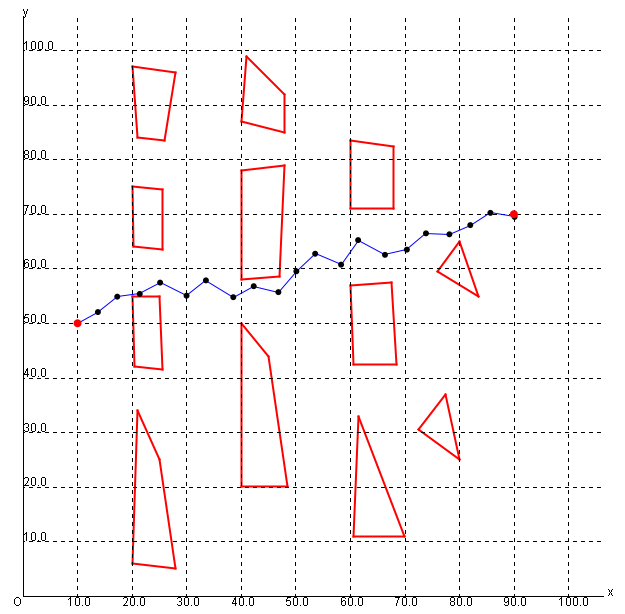
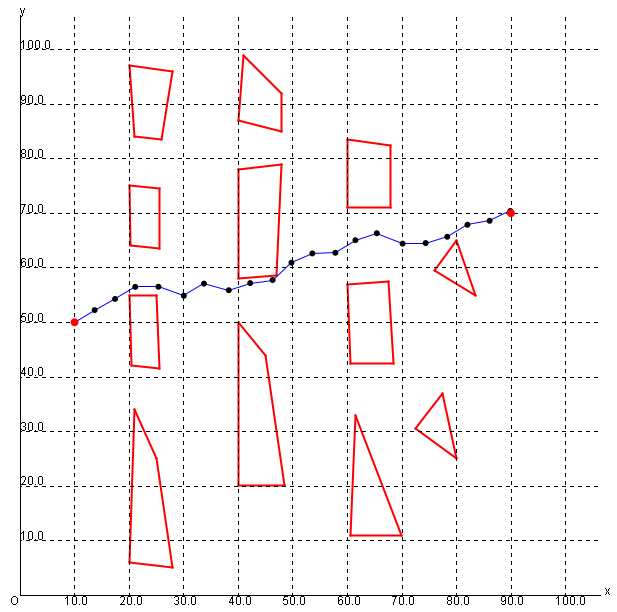
MOPSO (fix smooth function)

diff --git a/MOPSO/src/util/Path.java b/MOPSO/src/util/Path.java
@@ -40,17 +40,6 @@ public class Path {
 	}
 
 	public static Point convertPointToPoint(double pointy, double pointx, Point start, Point end) {
-//		double temp1, temp2, AB;
-//		double sinp, cosp, x, y;
-//		temp1 = end.x - start.x;
-//		temp2 = end.y - start.y;
-//		AB = Math.hypot(temp1, temp2);
-//		cosp = (temp1 / AB) * Math.cos(Math.toRadians(angle)) - (temp2 / AB) * Math.sin(Math.toRadians(angle));
-//		sinp = (temp1 / AB) * Math.sin(Math.toRadians(angle)) + (temp2 / AB) * Math.cos(Math.toRadians(angle));
-//		x = start.x + R * cosp;
-//		y = start.y + R * sinp;
-//		Point p = new Point(x, y);
-//		return p;
 		double x, y, temp1, temp2, phi;
 		temp1 = end.x - start.x;
 		temp2 = end.y - start.y;
@@ -68,89 +57,11 @@ public class Path {
 			b = Math.hypot(points[i + 2].x - points[i + 1].x, points[i + 2].y - points[i + 1].y);
 			c1 = (points[i + 1].x - points[i].x) * (points[i + 2].x - points[i + 1].x);
 			c2 = (points[i + 1].y - points[i].y) * (points[i + 2].y - points[i + 1].y);
-			double temp = (c1 + c2) / (a * b);
-			if (temp >= 1)
-				sum += Math.PI;
-			else if (temp >= -1)
-				sum += Math.PI - Math.acos(temp);
+			sum += Math.PI - 1 / Math.cos((c1 + c2) / (a * b));
 		}
 		smooth = sum / (points.length - 2);
 		return smooth;
 	}
-
-	// Su dung dinh li cosin trong tam giac
-//	public double pathSmooth() {
-//		double temp = 0;
-//		double[] ang = new double[n];
-//		double a, b, c;
-//		for (int i = 0; i < n; i++) {
-//			if (i == 0) {
-//				a = Math.pow(points[0].x - PSO.startPoint.x, 2) + Math.pow(points[0].y - PSO.startPoint.y, 2);
-//				b = Math.pow(points[1].x - points[0].x, 2) + Math.pow(points[1].y - points[0].y, 2);
-//				c = Math.pow(PSO.startPoint.x - points[1].x, 2) + Math.pow(PSO.startPoint.y - points[1].y, 2);
-//				ang[0] = Math.toDegrees(Math.acos((a + b - c) / Math.sqrt(4 * a * b)));
-//				if (a * b == 0) {
-//					System.out.println("ERROR with " + a + " " + b);
-//					PSO.startPoint.printPoint();
-//					points[0].printPoint();
-//					points[1].printPoint();
-//
-//				}
-//
-//				if (ang[0] != ang[0]) {
-//					if ((a + b - c) / Math.sqrt(4 * a * b) < -1) {
-//						ang[0] = Math.toDegrees(Math.acos(-1));
-//					} else if ((a + b - c) / Math.sqrt(4 * a * b) > -1) {
-//						ang[0] = Math.toDegrees(Math.acos(1));
-//					}
-//				}
-//			} else if (i == n - 1) {
-//				a = Math.pow(points[n - 1].x - points[n - 2].x, 2) + Math.pow(points[n - 1].y - points[n - 2].y, 2);
-//				b = Math.pow(points[n - 1].x - PSO.endPoint.y, 2) + Math.pow(points[n - 1].y - PSO.endPoint.y, 2);
-//				c = Math.pow(points[n - 2].x - PSO.endPoint.x, 2) + Math.pow(points[n - 2].y - PSO.endPoint.y, 2);
-//				ang[n - 1] = Math.toDegrees(Math.acos((a + b - c) / Math.sqrt(4 * a * b)));
-//				if (a * b == 0) {
-//					System.out.println("ERROR with " + a + " " + b);
-//					this.print();
-//					points[n - 2].printPoint();
-//					points[n - 1].printPoint();
-//					PSO.endPoint.printPoint();
-//				}
-//				if (ang[n - 1] != ang[n - 1]) {
-//					if ((a + b - c) / Math.sqrt(4 * a * b) < -1) {
-//						ang[n - 1] = Math.toDegrees(Math.acos(-1));
-//					}
-//					if ((a + b - c) / Math.sqrt(4 * a * b) > 1) {
-//						ang[n - 1] = Math.toDegrees(Math.acos(1));
-//					}
-//				}
-//			} else {
-//				a = Math.pow(points[i - 1].x - points[i].x, 2) + Math.pow(points[i - 1].y - points[i].y, 2);
-//				b = Math.pow(points[i].x - points[i + 1].x, 2) + Math.pow(points[i].y - points[i + 1].y, 2);
-//				c = Math.pow(points[i - 1].x - points[i + 1].x, 2) + Math.pow(points[i - 1].y - points[i + 1].y, 2);
-//				ang[i] = Math.toDegrees(Math.acos((a + b - c) / Math.sqrt(4 * a * b)));
-//				if (a * b == 0) {
-//					System.out.println("ERROR with " + a + " " + b);
-//					this.print();
-//					points[i - 1].printPoint();
-//					points[i].printPoint();
-//					points[i + 1].printPoint();
-//				}
-//				if (ang[i] != ang[i]) {
-//					if ((a + b - c) / Math.sqrt(4 * a * b) < -1) {
-//						ang[i] = Math.toDegrees(Math.acos(-1));
-//					} else if ((a + b - c) / Math.sqrt(4 * a * b) > 1) {
-//						ang[i] = Math.toDegrees(Math.acos(1));
-//					}
-//				}
-//			}
-//		}
-//		for (int i = 0; i < n; i++) {
-//			temp += ang[i];
-//		}
-//		temp = temp / n;
-//		return 180 - temp;
-//	}
 
 	// Neu o ngoai canh AB thi tich vo huong AS va AB < 0, tuong tu
 	public static double p2sDistance(Point p1, Point p2, Point S) {

diff --git a/MOPSO/src/algorithm/PSO.java b/MOPSO/src/algorithm/PSO.java
@@ -50,74 +50,6 @@ public class PSO {
 		this.R = AB / numR;
 	}
 
-//	public double calculateAngle(Point b, Point a, Point c) { // calculate angle BAC
-//		// vectors
-//		Point v1 = new Point(b.x - a.x, b.y - a.y);
-//		Point v2 = new Point(c.x - a.x, c.y - a.y);
-//		double cos = (v1.x * v2.x + v1.y * v2.y) / (Math.hypot(v1.x, v1.y) * Math.hypot(v2.x, v2.y));
-//		return Math.toDegrees(Math.acos(cos));
-//	}
-
-//	public double determinePathAngle() {
-//		LinkedList<Obstacle> collide = new LinkedList<Obstacle>();
-//		LinkedList<Point> up = new LinkedList<Point>();
-//		LinkedList<Point> down = new LinkedList<Point>();
-//		double a = startPoint.y - endPoint.y;
-//		double b = endPoint.x - startPoint.x;
-//		double c = -a * startPoint.x - b * startPoint.y;
-//
-//		for (int i = 0; i != graph.obstacleNumber; i++) {
-//			Obstacle obstacle = graph.obstacles[i];
-//			Line line = new Line(startPoint, endPoint);
-//			if (line.isIntersectObstacle(obstacle)) {
-//				collide.add(obstacle);
-//			}
-//		}
-//
-//		for (Obstacle obstacle : collide) {
-//			for (Point p : obstacle.points) {
-//				if (a * p.x + b * p.y + c >= 0) {
-//					up.add(p);
-//				} else if (a * p.x + b * p.y + c < 0) {
-//					down.add(p);
-//				}
-//			}
-//		}
-//
-//		double maxUp = 0, maxDown = 0;
-//		double disUp = 0, disDown = 0;
-//		for (Point p : up) {
-//			if (p.distanceFrom(startPoint) > disUp) {
-//				disUp = p.distanceFrom(startPoint);
-//			}
-//			double angle = calculateAngle(p, startPoint, endPoint);
-//			if (angle > maxUp) {
-//				maxUp = angle;
-//			}
-//		}
-//		for (Point p : down) {
-//			if (p.distanceFrom(startPoint) > disDown) {
-//				disDown = p.distanceFrom(startPoint);
-//			}
-//			double angle = calculateAngle(p, startPoint, endPoint);
-//			if (angle > maxDown) {
-//				maxDown = angle;
-//			}
-//		}
-//
-//		if (maxUp * disUp < maxDown * disDown) {
-//			if (disUp > this.numR * R) {
-//				this.numR = (int) (disUp / R) + 1;
-//			}
-//			return maxUp;
-//		} else {
-//			if (disDown > this.numR * R) {
-//				this.numR = (int) (disDown / R) + 1;
-//			}
-//			return maxDown;
-//		}
-//	}
-
 	public void initialize(int numR) {
 		for (int i = 0; i < NP; i++) {
 			double pointy[] = new double[numR];

diff --git a/MOPSO/src/main/Main.java b/MOPSO/src/main/Main.java
@@ -27,7 +27,7 @@ public class Main {
 		ArrayList<Point> result = new ArrayList<Point>();
 
 		try {
-			PSO pso = new PSO(20, pointsToVisit.get(0), pointsToVisit.get(1), graph);
+			PSO pso = new PSO(50, pointsToVisit.get(0), pointsToVisit.get(1), graph);
 			pso.run();
 			result.add(pointsToVisit.get(0));
 			for (int j = 0; j < pso.result.size(); j++) {
